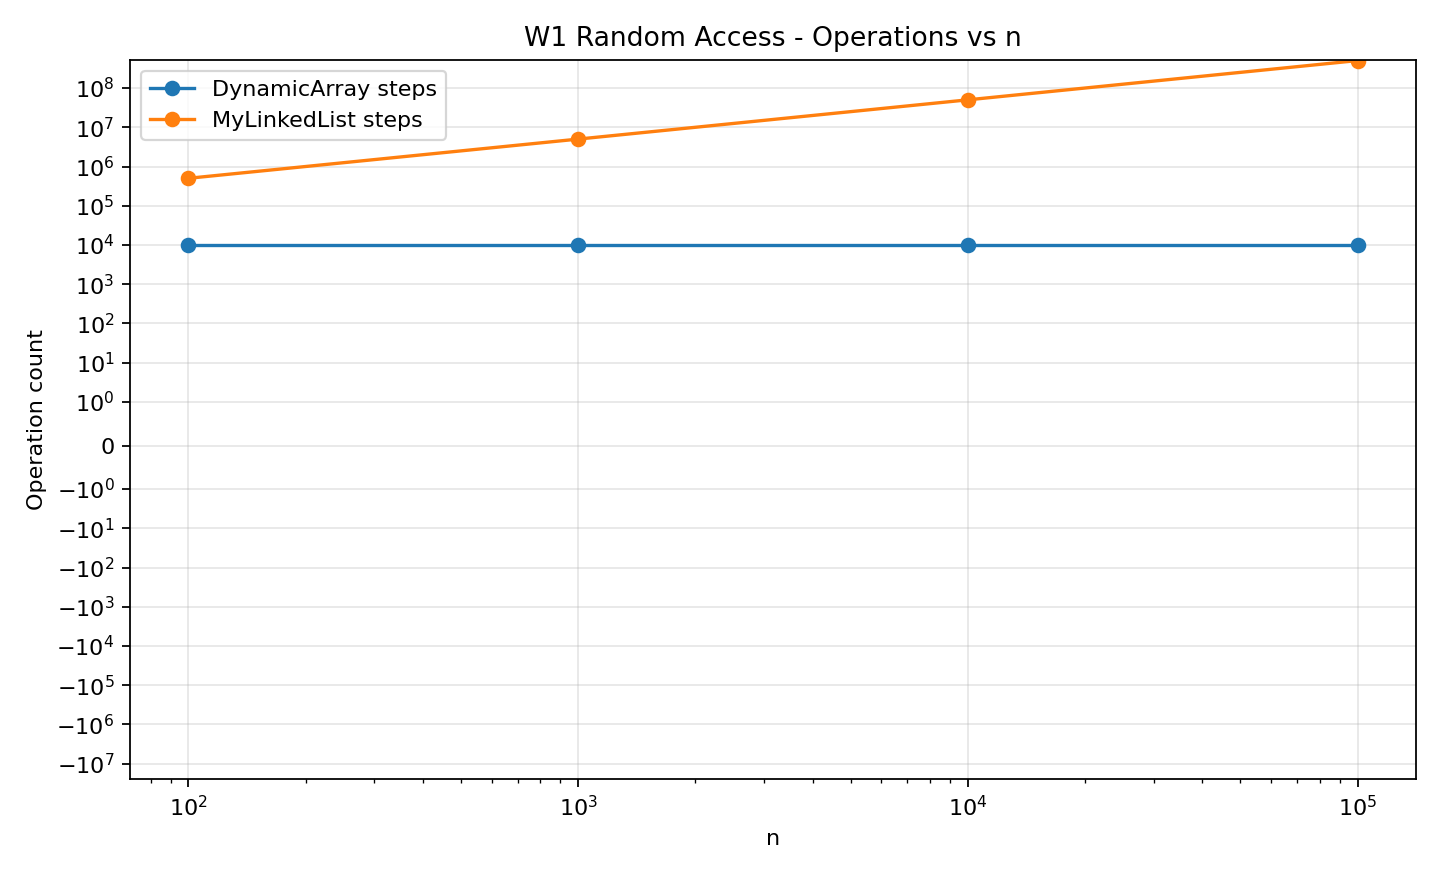
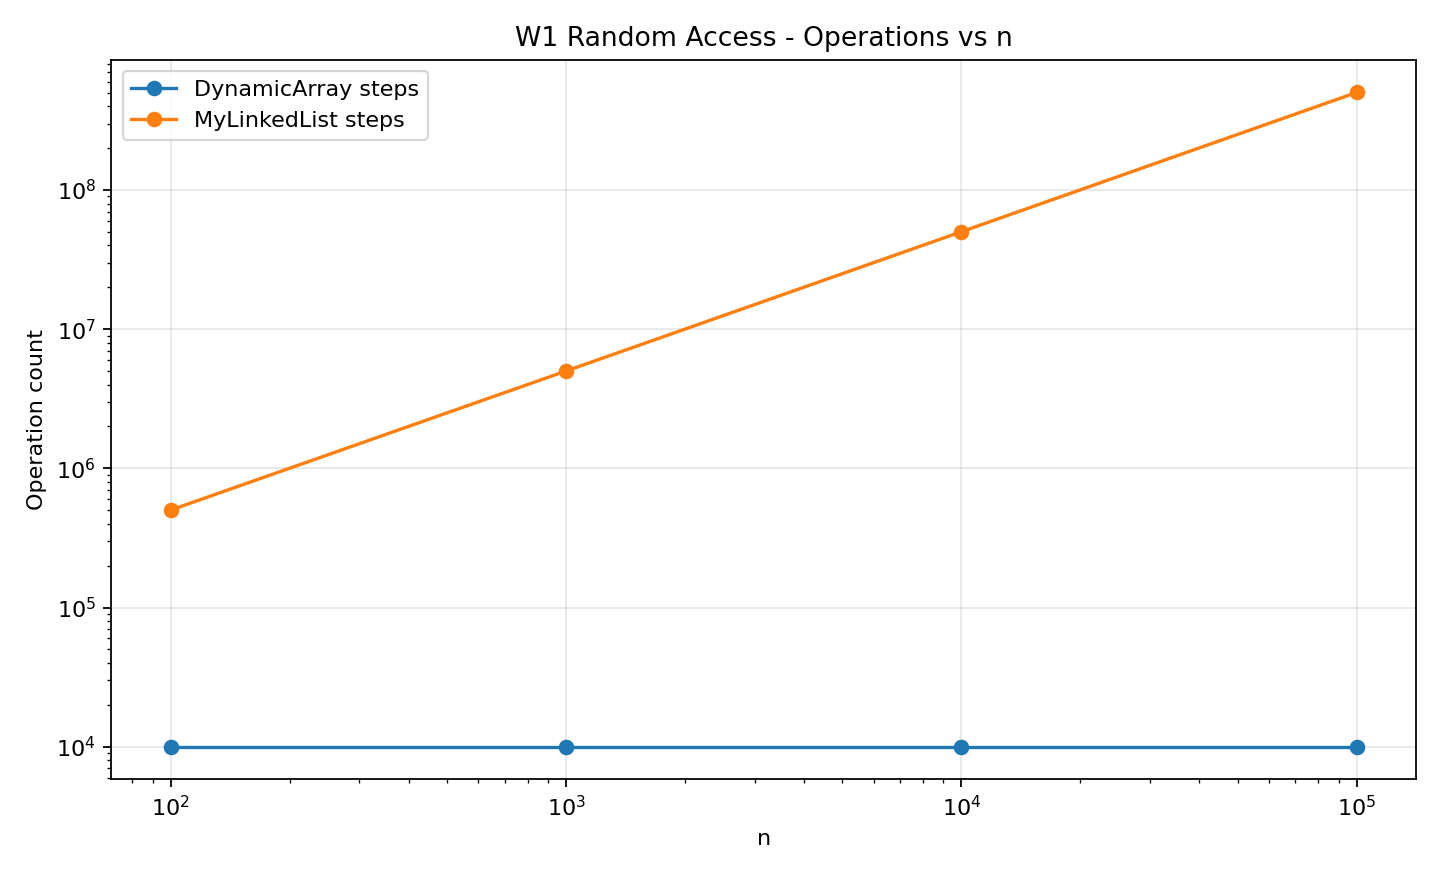
fix(plots): use log scale for operation counts

diff --git a/scripts/plot_results.py b/scripts/plot_results.py
@@ -84,7 +84,7 @@ def save_operations_plot(rows, title, filename):
                 )
 
     plt.xscale("log")
-    plt.yscale("symlog", linthresh=1)
+    plt.yscale("log")
     plt.xlabel("n")
     plt.ylabel("Operation count")
     plt.title(title)
